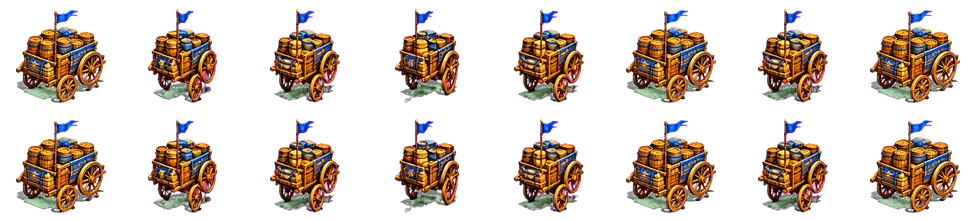
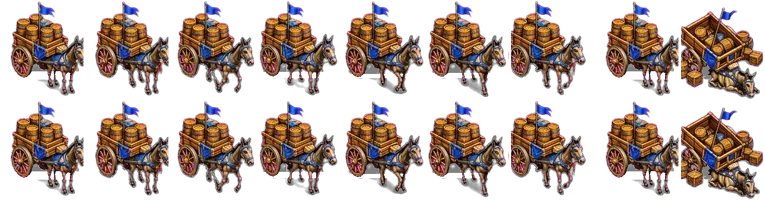
v17: Carroça de Suprimentos com burro (arte do Gemini): 7 quadros andando + destruída
- usa a 2ª fileira da folha; 1ª fileira (sem burro) e as viradas para a esquerda ficaram de fora
- JPG: fundo quase-magenta normalizado antes do recorte; âncora centrada no desenho

Claude-Session: https://claude.ai/code/session_01GABPqirBMdktwhnGVNR9nv

diff --git a/index.html b/index.html
@@ -2619,8 +2619,8 @@ function drawHuntTool(t,S,u){const hx=S.w*.18,hy=-S.ay*.52;ctx.lineCap='round';
     if(pull){ctx.strokeStyle='#d9c9a0';ctx.lineWidth=1.1;ctx.beginPath();ctx.moveTo(ex-pull,hy);ctx.lineTo(cx+R+5,hy);ctx.stroke()}}
   else{ctx.strokeStyle='#3a2616';ctx.lineWidth=2.6;ctx.beginPath();ctx.moveTo(hx-8,hy+4);ctx.lineTo(hx+12,hy-3);ctx.stroke();ctx.strokeStyle='#5a5a5a';ctx.lineWidth=1.6;ctx.beginPath();ctx.moveTo(hx+2,hy);ctx.lineTo(hx+14,hy-4);ctx.stroke()}}
 
-// ---------- arte do GPT: medidas geradas pelos recorta*.py ----------
-const GPTART={"u":{"vill":{"w":42.07,"h":63.84,"ax":19.67,"ay":61.81,"dead":true,"team":true},"guer":{"w":41.61,"h":64.23,"ax":19.07,"ay":61.68,"dead":true,"team":true},"guerA":{"w":41.42,"h":66.79,"ax":19.13,"ay":62.96,"dead":true,"team":true},"espa":{"w":40.52,"h":61.66,"ax":17.35,"ay":55.26,"dead":true,"team":true},"gaz":{"w":33.73,"h":40.38,"ax":14.59,"ay":38.59,"dead":false,"team":false},"elfs":{"w":89.6,"h":94.0,"ax":36.36,"ay":89.2,"dead":false,"team":false},"leao":{"w":44.3,"h":45.13,"ax":23.65,"ay":43.48,"dead":false,"team":false},"hopl":{"w":28.14,"h":59.31,"ax":15.61,"ay":53.26,"dead":true,"team":true,"rows":2},"arq":{"w":28.04,"h":55.52,"ax":15.45,"ay":54.83,"dead":true,"team":true,"rows":2},"arqc":{"w":45.85,"h":63.82,"ax":22.28,"ay":61.29,"dead":true,"team":true,"rows":2},"sac":{"w":45.91,"h":68.86,"ax":22.32,"ay":62.95,"dead":true,"team":true,"rows":2},"bat":{"w":60.55,"h":68.51,"ax":31.4,"ay":65.33,"dead":true,"team":true,"rows":2},"cav":{"w":62.27,"h":80.02,"ax":32.72,"ay":74.83,"dead":true,"team":true,"rows":2},"arqcav":{"w":54.38,"h":105.38,"ax":25.15,"ay":91.36,"dead":true,"team":true,"rows":2},"elef":{"w":74.34,"h":142.63,"ax":29.85,"ay":114.37,"dead":true,"team":true,"rows":2},"pedra":{"w":71.9,"h":125.71,"ax":32.72,"ay":109.52,"dead":true,"team":true,"rows":1},"bal":{"w":66.62,"h":126.18,"ax":32.26,"ay":108.97,"dead":true,"team":true,"rows":1},"bguer":{"w":103.38,"h":58.15,"ax":54.2,"ay":57.35,"dead":false,"team":true,"rows":1},"trans":{"w":100.03,"h":60.52,"ax":56.76,"ay":59.12,"dead":false,"team":true,"rows":1},"pesc":{"w":79.5,"h":48.59,"ax":42.91,"ay":46.71,"dead":false,"team":true,"rows":1},"trir":{"w":107.17,"h":65.51,"ax":56.59,"ay":64.6,"dead":false,"team":true,"rows":1},"villW":{"w":47.84,"h":52.16,"ax":26.88,"ay":50.87,"dead":false,"team":true,"rows":2,"walk8":true},"caravana":{"w":42.35,"h":48.84,"ax":27.15,"ay":47.01,"dead":true,"team":true,"rows":2,"wf":7,"ws":0},"carroca":{"w":61.0,"h":55.0,"ax":30.34,"ay":50.72,"dead":false,"team":true,"rows":2},"mercador":{"w":50.4,"h":57.6,"ax":25.62,"ay":56.0,"dead":false,"team":true,"rows":2,"wf":8,"ws":0},"general":{"w":58.69,"h":68.13,"ax":32.6,"ay":66.9,"dead":false,"team":true,"rows":2,"wf":8,"ws":0},"carro":{"w":75.96,"h":64.05,"ax":34.31,"ay":62.82,"dead":false,"team":true,"rows":2,"wf":8,"ws":0}},"b":{"grego":{"tc":{"W":194.57,"H":192.51,"xc":97.03,"top":94.46,"cy":142.46,"bt":1.54,"dw":192.0,"r":[0,0,389,385],"at":"P1"},"casa":{"W":130.77,"H":105.86,"xc":65.38,"top":40.48,"cy":72.48,"bt":1.04,"dw":128.0,"r":[391,0,262,212],"at":"P1"},"celeiro":{"W":133.27,"H":107.25,"xc":67.52,"top":41.85,"cy":73.85,"bt":1.05,"dw":128.0,"r":[655,0,267,215],"at":"P1"},"deposito":{"W":129.72,"H":109.13,"xc":65.03,"top":43.75,"cy":75.75,"bt":1.03,"dw":128.0,"r":[924,0,259,218],"at":"P1"},"mercado":{"W":192.51,"H":176.72,"xc":96.0,"top":78.18,"cy":126.18,"bt":1.53,"dw":192.0,"r":[1185,0,385,353],"at":"P1"},"doca":{"W":132.25,"H":107.79,"xc":66.13,"top":42.02,"cy":74.02,"bt":1.06,"dw":128.0,"r":[1572,0,265,216],"at":"P1"},"torre":{"W":74.62,"H":91.23,"xc":37.31,"top":54.55,"cy":72.47,"bt":0.63,"dw":71.68,"r":[1839,0,149,182],"at":"P1"},"muralha":{"W":69.52,"H":66.76,"xc":37.15,"top":34.02,"cy":50.02,"bt":0.55,"dw":64.0,"r":[1990,0,139,134],"at":"P1"},"quartel":{"W":192.51,"H":169.08,"xc":96.0,"top":71.05,"cy":119.05,"bt":1.53,"dw":192.0,"r":[0,0,385,338],"at":"P2"},"arquearia":{"W":196.67,"H":158.27,"xc":100.15,"top":60.19,"cy":108.19,"bt":1.56,"dw":192.0,"r":[387,0,393,317],"at":"P2"},"estabulo":{"W":192.51,"H":165.59,"xc":96.0,"top":67.05,"cy":115.05,"bt":1.52,"dw":192.0,"r":[782,0,385,331],"at":"P2"},"academia":{"W":192.51,"H":164.5,"xc":96.0,"top":66.46,"cy":114.46,"bt":1.53,"dw":192.0,"r":[1169,0,385,329],"at":"P2"},"templo":{"W":194.57,"H":194.06,"xc":98.06,"top":96.0,"cy":144.0,"bt":1.54,"dw":192.0,"r":[1556,0,389,388],"at":"P2"},"oficina":{"W":192.51,"H":170.67,"xc":96.0,"top":72.13,"cy":120.13,"bt":1.52,"dw":192.0,"r":[1947,0,385,341],"at":"P2"},"maravilha":{"W":256.68,"H":327.11,"xc":128.0,"top":197.08,"cy":261.08,"bt":2.03,"dw":256.0,"r":[2334,0,513,654],"at":"P2"},"alicerce":{"W":128.34,"H":120.87,"xc":64.0,"top":55.51,"cy":87.51,"bt":1.02,"dw":128.0,"r":[2849,0,257,242],"at":"P2"}},"egito":{"tc":{"W":193.05,"H":240.26,"xc":96.0,"top":140.07,"cy":188.07,"bt":3.15,"dw":192.0,"at":"E","r":[0,0,386,481]},"casa":{"W":130.84,"H":128.0,"xc":66.13,"top":60.44,"cy":92.44,"bt":2.13,"dw":128.0,"at":"E","r":[388,0,262,256]},"celeiro":{"W":128.7,"H":150.38,"xc":64.0,"top":83.58,"cy":115.58,"bt":2.1,"dw":128.0,"at":"E","r":[652,0,257,301]},"deposito":{"W":128.7,"H":160.17,"xc":64.0,"top":93.38,"cy":125.38,"bt":2.1,"dw":128.0,"at":"E","r":[911,0,257,320]},"mercado":{"W":193.05,"H":224.52,"xc":96.0,"top":124.33,"cy":172.33,"bt":3.15,"dw":192.0,"at":"E","r":[1170,0,386,449]},"doca":{"W":134.58,"H":160.18,"xc":69.85,"top":93.26,"cy":125.26,"bt":2.19,"dw":128.0,"at":"E","r":[1558,0,269,320]},"torre":{"W":85.09,"H":138.27,"xc":44.63,"top":100.12,"cy":118.04,"bt":1.39,"dw":71.68,"at":"E","r":[1829,0,170,277]},"quartel":{"W":196.27,"H":238.93,"xc":99.2,"top":137.6,"cy":185.6,"bt":3.2,"dw":192.0,"at":"E","r":[2001,0,393,478]},"arquearia":{"W":193.05,"H":223.48,"xc":96.0,"top":122.23,"cy":170.23,"bt":3.15,"dw":192.0,"at":"E","r":[2396,0,386,447]},"estabulo":{"W":193.05,"H":226.62,"xc":96.0,"top":126.43,"cy":174.43,"bt":3.15,"dw":192.0,"at":"E","r":[2784,0,386,453]},"academia":{"W":196.27,"H":243.2,"xc":99.2,"top":141.87,"cy":189.87,"bt":3.2,"dw":192.0,"at":"E","r":[3172,0,393,486]},"templo":{"W":194.11,"H":282.73,"xc":97.05,"top":181.45,"cy":229.45,"bt":3.16,"dw":192.0,"at":"E","r":[3567,0,388,565]},"oficina":{"W":198.47,"H":259.96,"xc":101.39,"top":159.64,"cy":207.64,"bt":3.24,"dw":192.0,"at":"E","r":[3957,0,397,520]},"maravilha":{"W":257.4,"H":267.19,"xc":128.0,"top":133.6,"cy":197.6,"bt":4.2,"dw":256.0,"at":"E","r":[4356,0,515,534]},"biblioteca":{"W":198.28,"H":158.9,"xc":99.14,"top":61.33,"cy":109.77,"bt":0.52,"dw":193.75,"r":[0,0,397,318],"at":"E2"}},"comum":{"biblioteca":{"W":199.56,"H":213.71,"xc":100.15,"top":112.81,"cy":161.77,"bt":2.23,"dw":195.84,"r":[0,0,399,427],"at":"R1"},"forte":{"W":204.69,"H":137.0,"xc":102.35,"top":35.09,"cy":85.97,"bt":0.44,"dw":203.52,"r":[401,0,409,274],"at":"R1"}}},"n":{"tree0":{"W":78.5,"H":85.21,"xc":39.25,"top":49.31,"cy":66.81,"bt":0.67,"dw":70.0,"r":[0,0,157,170],"at":"N1"},"tree1":{"W":82.17,"H":92.36,"xc":41.3,"top":51.27,"cy":71.27,"bt":0.65,"dw":80.0,"r":[159,0,164,185],"at":"N1"},"tree3":{"W":81.59,"H":103.26,"xc":40.79,"top":69.29,"cy":85.79,"bt":0.73,"dw":66.0,"r":[325,0,163,207],"at":"N1"},"tree4":{"W":64.16,"H":90.42,"xc":32.08,"top":62.58,"cy":76.08,"bt":0.64,"dw":54.0,"r":[490,0,128,181],"at":"N1"},"tree5":{"W":80.34,"H":102.58,"xc":40.17,"top":68.6,"cy":85.1,"bt":0.74,"dw":66.0,"r":[620,0,161,205],"at":"N1"},"tree6":{"W":95.33,"H":110.81,"xc":40.6,"top":76.73,"cy":93.23,"bt":0.81,"dw":66.0,"r":[783,0,191,222],"at":"N1"},"tree7":{"W":100.45,"H":90.08,"xc":46.5,"top":51.02,"cy":70.02,"bt":0.8,"dw":76.0,"r":[976,0,201,180],"at":"N1"},"berry":{"W":66.01,"H":55.26,"xc":33.01,"top":26.33,"cy":40.33,"bt":0.56,"dw":56.0,"r":[1179,0,132,111],"at":"N1"},"gold":{"W":60.97,"H":40.43,"xc":30.49,"top":9.78,"cy":24.78,"bt":0.49,"dw":60.0,"r":[0,0,122,81],"at":"N2"},"mina":{"W":97.28,"H":85.99,"xc":49.03,"top":36.96,"cy":60.96,"bt":0.77,"dw":96.0,"r":[124,0,195,172],"at":"N2"},"stone":{"W":61.3,"H":41.68,"xc":30.65,"top":11.03,"cy":26.03,"bt":0.49,"dw":60.0,"r":[321,0,123,83],"at":"N2"},"pedreira":{"W":97.29,"H":89.29,"xc":49.03,"top":40.26,"cy":64.26,"bt":0.77,"dw":96.0,"r":[446,0,195,179],"at":"N2"},"fish":{"W":62.86,"H":42.1,"xc":31.43,"top":13.33,"cy":27.33,"bt":0.57,"dw":56.0,"r":[643,0,126,84],"at":"N2"},"carc":{"W":59.25,"H":34.02,"xc":29.63,"top":4.23,"cy":18.73,"bt":0.47,"dw":58.0,"r":[771,0,119,68],"at":"N2"},"carcE":{"W":83.55,"H":58.35,"xc":41.66,"top":16.25,"cy":36.75,"bt":0.66,"dw":82.0,"r":[892,0,167,117],"at":"N2"},"toco":{"W":40.98,"H":25.5,"xc":20.33,"top":4.96,"cy":14.96,"bt":0.33,"dw":40.0,"r":[1061,0,82,51],"at":"N2"}},"x":{"raro_gemas":{"W":87.11,"H":67.41,"xc":43.56,"top":23.33,"cy":44.33,"bt":1.56,"dw":84.0,"r":[0,0,174,135],"at":"R2"},"raro_uvas":{"W":86.74,"H":73.04,"xc":43.37,"top":29.22,"cy":50.22,"bt":1.37,"dw":84.0,"r":[176,0,173,146],"at":"R2"},"raro_sal":{"W":87.05,"H":64.15,"xc":43.53,"top":20.11,"cy":41.11,"bt":1.53,"dw":84.0,"r":[351,0,174,128],"at":"R2"},"raro_cavalos":{"W":87.65,"H":74.41,"xc":43.83,"top":30.59,"cy":51.59,"bt":1.37,"dw":84.0,"r":[527,0,175,149],"at":"R2"},"raro_cedro":{"W":87.02,"H":80.98,"xc":43.51,"top":36.97,"cy":57.97,"bt":1.51,"dw":84.0,"r":[704,0,174,162],"at":"R2"},"raro_marmore":{"W":87.07,"H":79.39,"xc":43.54,"top":35.34,"cy":56.34,"bt":1.54,"dw":84.0,"r":[880,0,174,159],"at":"R2"},"raro_seda":{"W":87.05,"H":84.0,"xc":43.53,"top":39.96,"cy":60.96,"bt":1.53,"dw":84.0,"r":[1056,0,174,168],"at":"R2"},"raro_ervas":{"W":87.23,"H":77.54,"xc":43.62,"top":33.38,"cy":54.38,"bt":1.62,"dw":84.0,"r":[1232,0,174,155],"at":"R2"},"ruina0":{"W":121.16,"H":123.27,"xc":60.58,"top":62.16,"cy":91.66,"bt":1.58,"dw":118.0,"r":[1408,0,242,247],"at":"R2"},"ruina1":{"W":121.69,"H":108.32,"xc":60.84,"top":47.02,"cy":76.52,"bt":1.38,"dw":118.0,"r":[1652,0,243,217],"at":"R2"},"ruina2":{"W":121.79,"H":109.94,"xc":60.9,"top":49.05,"cy":78.55,"bt":1.42,"dw":118.0,"r":[1897,0,244,220],"at":"R2"},"ruina3":{"W":121.08,"H":119.54,"xc":60.54,"top":57.97,"cy":87.47,"bt":1.54,"dw":118.0,"r":[2143,0,242,239],"at":"R2"},"ruina4":{"W":121.63,"H":119.82,"xc":60.82,"top":58.39,"cy":87.89,"bt":1.82,"dw":118.0,"r":[2387,0,243,240],"at":"R2"},"ruina5":{"W":121.49,"H":119.16,"xc":60.74,"top":57.84,"cy":87.34,"bt":1.74,"dw":118.0,"r":[2632,0,243,238],"at":"R2"}}};
+// ---------- arte do GPT/Gemini ----------
+const GPTART={"u":{"vill":{"w":42.07,"h":63.84,"ax":19.67,"ay":61.81,"dead":true,"team":true},"guer":{"w":41.61,"h":64.23,"ax":19.07,"ay":61.68,"dead":true,"team":true},"guerA":{"w":41.42,"h":66.79,"ax":19.13,"ay":62.96,"dead":true,"team":true},"espa":{"w":40.52,"h":61.66,"ax":17.35,"ay":55.26,"dead":true,"team":true},"gaz":{"w":33.73,"h":40.38,"ax":14.59,"ay":38.59,"dead":false,"team":false},"elfs":{"w":89.6,"h":94.0,"ax":36.36,"ay":89.2,"dead":false,"team":false},"leao":{"w":44.3,"h":45.13,"ax":23.65,"ay":43.48,"dead":false,"team":false},"hopl":{"w":28.14,"h":59.31,"ax":15.61,"ay":53.26,"dead":true,"team":true,"rows":2},"arq":{"w":28.04,"h":55.52,"ax":15.45,"ay":54.83,"dead":true,"team":true,"rows":2},"arqc":{"w":45.85,"h":63.82,"ax":22.28,"ay":61.29,"dead":true,"team":true,"rows":2},"sac":{"w":45.91,"h":68.86,"ax":22.32,"ay":62.95,"dead":true,"team":true,"rows":2},"bat":{"w":60.55,"h":68.51,"ax":31.4,"ay":65.33,"dead":true,"team":true,"rows":2},"cav":{"w":62.27,"h":80.02,"ax":32.72,"ay":74.83,"dead":true,"team":true,"rows":2},"arqcav":{"w":54.38,"h":105.38,"ax":25.15,"ay":91.36,"dead":true,"team":true,"rows":2},"elef":{"w":74.34,"h":142.63,"ax":29.85,"ay":114.37,"dead":true,"team":true,"rows":2},"pedra":{"w":71.9,"h":125.71,"ax":32.72,"ay":109.52,"dead":true,"team":true,"rows":1},"bal":{"w":66.62,"h":126.18,"ax":32.26,"ay":108.97,"dead":true,"team":true,"rows":1},"bguer":{"w":103.38,"h":58.15,"ax":54.2,"ay":57.35,"dead":false,"team":true,"rows":1},"trans":{"w":100.03,"h":60.52,"ax":56.76,"ay":59.12,"dead":false,"team":true,"rows":1},"pesc":{"w":79.5,"h":48.59,"ax":42.91,"ay":46.71,"dead":false,"team":true,"rows":1},"trir":{"w":107.17,"h":65.51,"ax":56.59,"ay":64.6,"dead":false,"team":true,"rows":1},"villW":{"w":47.84,"h":52.16,"ax":26.88,"ay":50.87,"dead":false,"team":true,"rows":2,"walk8":true},"caravana":{"w":42.35,"h":48.84,"ax":27.15,"ay":47.01,"dead":true,"team":true,"rows":2,"wf":7,"ws":0},"carroca":{"w":42.62,"h":49.9,"ax":23.5,"ay":47.04,"dead":true,"team":true,"rows":2,"wf":7,"ws":0},"mercador":{"w":50.4,"h":57.6,"ax":25.62,"ay":56.0,"dead":false,"team":true,"rows":2,"wf":8,"ws":0},"general":{"w":58.69,"h":68.13,"ax":32.6,"ay":66.9,"dead":false,"team":true,"rows":2,"wf":8,"ws":0},"carro":{"w":75.96,"h":64.05,"ax":34.31,"ay":62.82,"dead":false,"team":true,"rows":2,"wf":8,"ws":0}},"b":{"grego":{"tc":{"W":194.57,"H":192.51,"xc":97.03,"top":94.46,"cy":142.46,"bt":1.54,"dw":192.0,"r":[0,0,389,385],"at":"P1"},"casa":{"W":130.77,"H":105.86,"xc":65.38,"top":40.48,"cy":72.48,"bt":1.04,"dw":128.0,"r":[391,0,262,212],"at":"P1"},"celeiro":{"W":133.27,"H":107.25,"xc":67.52,"top":41.85,"cy":73.85,"bt":1.05,"dw":128.0,"r":[655,0,267,215],"at":"P1"},"deposito":{"W":129.72,"H":109.13,"xc":65.03,"top":43.75,"cy":75.75,"bt":1.03,"dw":128.0,"r":[924,0,259,218],"at":"P1"},"mercado":{"W":192.51,"H":176.72,"xc":96.0,"top":78.18,"cy":126.18,"bt":1.53,"dw":192.0,"r":[1185,0,385,353],"at":"P1"},"doca":{"W":132.25,"H":107.79,"xc":66.13,"top":42.02,"cy":74.02,"bt":1.06,"dw":128.0,"r":[1572,0,265,216],"at":"P1"},"torre":{"W":74.62,"H":91.23,"xc":37.31,"top":54.55,"cy":72.47,"bt":0.63,"dw":71.68,"r":[1839,0,149,182],"at":"P1"},"muralha":{"W":69.52,"H":66.76,"xc":37.15,"top":34.02,"cy":50.02,"bt":0.55,"dw":64.0,"r":[1990,0,139,134],"at":"P1"},"quartel":{"W":192.51,"H":169.08,"xc":96.0,"top":71.05,"cy":119.05,"bt":1.53,"dw":192.0,"r":[0,0,385,338],"at":"P2"},"arquearia":{"W":196.67,"H":158.27,"xc":100.15,"top":60.19,"cy":108.19,"bt":1.56,"dw":192.0,"r":[387,0,393,317],"at":"P2"},"estabulo":{"W":192.51,"H":165.59,"xc":96.0,"top":67.05,"cy":115.05,"bt":1.52,"dw":192.0,"r":[782,0,385,331],"at":"P2"},"academia":{"W":192.51,"H":164.5,"xc":96.0,"top":66.46,"cy":114.46,"bt":1.53,"dw":192.0,"r":[1169,0,385,329],"at":"P2"},"templo":{"W":194.57,"H":194.06,"xc":98.06,"top":96.0,"cy":144.0,"bt":1.54,"dw":192.0,"r":[1556,0,389,388],"at":"P2"},"oficina":{"W":192.51,"H":170.67,"xc":96.0,"top":72.13,"cy":120.13,"bt":1.52,"dw":192.0,"r":[1947,0,385,341],"at":"P2"},"maravilha":{"W":256.68,"H":327.11,"xc":128.0,"top":197.08,"cy":261.08,"bt":2.03,"dw":256.0,"r":[2334,0,513,654],"at":"P2"},"alicerce":{"W":128.34,"H":120.87,"xc":64.0,"top":55.51,"cy":87.51,"bt":1.02,"dw":128.0,"r":[2849,0,257,242],"at":"P2"}},"egito":{"tc":{"W":193.05,"H":240.26,"xc":96.0,"top":140.07,"cy":188.07,"bt":3.15,"dw":192.0,"at":"E","r":[0,0,386,481]},"casa":{"W":130.84,"H":128.0,"xc":66.13,"top":60.44,"cy":92.44,"bt":2.13,"dw":128.0,"at":"E","r":[388,0,262,256]},"celeiro":{"W":128.7,"H":150.38,"xc":64.0,"top":83.58,"cy":115.58,"bt":2.1,"dw":128.0,"at":"E","r":[652,0,257,301]},"deposito":{"W":128.7,"H":160.17,"xc":64.0,"top":93.38,"cy":125.38,"bt":2.1,"dw":128.0,"at":"E","r":[911,0,257,320]},"mercado":{"W":193.05,"H":224.52,"xc":96.0,"top":124.33,"cy":172.33,"bt":3.15,"dw":192.0,"at":"E","r":[1170,0,386,449]},"doca":{"W":134.58,"H":160.18,"xc":69.85,"top":93.26,"cy":125.26,"bt":2.19,"dw":128.0,"at":"E","r":[1558,0,269,320]},"torre":{"W":85.09,"H":138.27,"xc":44.63,"top":100.12,"cy":118.04,"bt":1.39,"dw":71.68,"at":"E","r":[1829,0,170,277]},"quartel":{"W":196.27,"H":238.93,"xc":99.2,"top":137.6,"cy":185.6,"bt":3.2,"dw":192.0,"at":"E","r":[2001,0,393,478]},"arquearia":{"W":193.05,"H":223.48,"xc":96.0,"top":122.23,"cy":170.23,"bt":3.15,"dw":192.0,"at":"E","r":[2396,0,386,447]},"estabulo":{"W":193.05,"H":226.62,"xc":96.0,"top":126.43,"cy":174.43,"bt":3.15,"dw":192.0,"at":"E","r":[2784,0,386,453]},"academia":{"W":196.27,"H":243.2,"xc":99.2,"top":141.87,"cy":189.87,"bt":3.2,"dw":192.0,"at":"E","r":[3172,0,393,486]},"templo":{"W":194.11,"H":282.73,"xc":97.05,"top":181.45,"cy":229.45,"bt":3.16,"dw":192.0,"at":"E","r":[3567,0,388,565]},"oficina":{"W":198.47,"H":259.96,"xc":101.39,"top":159.64,"cy":207.64,"bt":3.24,"dw":192.0,"at":"E","r":[3957,0,397,520]},"maravilha":{"W":257.4,"H":267.19,"xc":128.0,"top":133.6,"cy":197.6,"bt":4.2,"dw":256.0,"at":"E","r":[4356,0,515,534]},"biblioteca":{"W":198.28,"H":158.9,"xc":99.14,"top":61.33,"cy":109.77,"bt":0.52,"dw":193.75,"r":[0,0,397,318],"at":"E2"}},"comum":{"biblioteca":{"W":199.56,"H":213.71,"xc":100.15,"top":112.81,"cy":161.77,"bt":2.23,"dw":195.84,"r":[0,0,399,427],"at":"R1"},"forte":{"W":204.69,"H":137.0,"xc":102.35,"top":35.09,"cy":85.97,"bt":0.44,"dw":203.52,"r":[401,0,409,274],"at":"R1"}}},"n":{"tree0":{"W":78.5,"H":85.21,"xc":39.25,"top":49.31,"cy":66.81,"bt":0.67,"dw":70.0,"r":[0,0,157,170],"at":"N1"},"tree1":{"W":82.17,"H":92.36,"xc":41.3,"top":51.27,"cy":71.27,"bt":0.65,"dw":80.0,"r":[159,0,164,185],"at":"N1"},"tree3":{"W":81.59,"H":103.26,"xc":40.79,"top":69.29,"cy":85.79,"bt":0.73,"dw":66.0,"r":[325,0,163,207],"at":"N1"},"tree4":{"W":64.16,"H":90.42,"xc":32.08,"top":62.58,"cy":76.08,"bt":0.64,"dw":54.0,"r":[490,0,128,181],"at":"N1"},"tree5":{"W":80.34,"H":102.58,"xc":40.17,"top":68.6,"cy":85.1,"bt":0.74,"dw":66.0,"r":[620,0,161,205],"at":"N1"},"tree6":{"W":95.33,"H":110.81,"xc":40.6,"top":76.73,"cy":93.23,"bt":0.81,"dw":66.0,"r":[783,0,191,222],"at":"N1"},"tree7":{"W":100.45,"H":90.08,"xc":46.5,"top":51.02,"cy":70.02,"bt":0.8,"dw":76.0,"r":[976,0,201,180],"at":"N1"},"berry":{"W":66.01,"H":55.26,"xc":33.01,"top":26.33,"cy":40.33,"bt":0.56,"dw":56.0,"r":[1179,0,132,111],"at":"N1"},"gold":{"W":60.97,"H":40.43,"xc":30.49,"top":9.78,"cy":24.78,"bt":0.49,"dw":60.0,"r":[0,0,122,81],"at":"N2"},"mina":{"W":97.28,"H":85.99,"xc":49.03,"top":36.96,"cy":60.96,"bt":0.77,"dw":96.0,"r":[124,0,195,172],"at":"N2"},"stone":{"W":61.3,"H":41.68,"xc":30.65,"top":11.03,"cy":26.03,"bt":0.49,"dw":60.0,"r":[321,0,123,83],"at":"N2"},"pedreira":{"W":97.29,"H":89.29,"xc":49.03,"top":40.26,"cy":64.26,"bt":0.77,"dw":96.0,"r":[446,0,195,179],"at":"N2"},"fish":{"W":62.86,"H":42.1,"xc":31.43,"top":13.33,"cy":27.33,"bt":0.57,"dw":56.0,"r":[643,0,126,84],"at":"N2"},"carc":{"W":59.25,"H":34.02,"xc":29.63,"top":4.23,"cy":18.73,"bt":0.47,"dw":58.0,"r":[771,0,119,68],"at":"N2"},"carcE":{"W":83.55,"H":58.35,"xc":41.66,"top":16.25,"cy":36.75,"bt":0.66,"dw":82.0,"r":[892,0,167,117],"at":"N2"},"toco":{"W":40.98,"H":25.5,"xc":20.33,"top":4.96,"cy":14.96,"bt":0.33,"dw":40.0,"r":[1061,0,82,51],"at":"N2"}},"x":{"raro_gemas":{"W":87.11,"H":67.41,"xc":43.56,"top":23.33,"cy":44.33,"bt":1.56,"dw":84.0,"r":[0,0,174,135],"at":"R2"},"raro_uvas":{"W":86.74,"H":73.04,"xc":43.37,"top":29.22,"cy":50.22,"bt":1.37,"dw":84.0,"r":[176,0,173,146],"at":"R2"},"raro_sal":{"W":87.05,"H":64.15,"xc":43.53,"top":20.11,"cy":41.11,"bt":1.53,"dw":84.0,"r":[351,0,174,128],"at":"R2"},"raro_cavalos":{"W":87.65,"H":74.41,"xc":43.83,"top":30.59,"cy":51.59,"bt":1.37,"dw":84.0,"r":[527,0,175,149],"at":"R2"},"raro_cedro":{"W":87.02,"H":80.98,"xc":43.51,"top":36.97,"cy":57.97,"bt":1.51,"dw":84.0,"r":[704,0,174,162],"at":"R2"},"raro_marmore":{"W":87.07,"H":79.39,"xc":43.54,"top":35.34,"cy":56.34,"bt":1.54,"dw":84.0,"r":[880,0,174,159],"at":"R2"},"raro_seda":{"W":87.05,"H":84.0,"xc":43.53,"top":39.96,"cy":60.96,"bt":1.53,"dw":84.0,"r":[1056,0,174,168],"at":"R2"},"raro_ervas":{"W":87.23,"H":77.54,"xc":43.62,"top":33.38,"cy":54.38,"bt":1.62,"dw":84.0,"r":[1232,0,174,155],"at":"R2"},"ruina0":{"W":121.16,"H":123.27,"xc":60.58,"top":62.16,"cy":91.66,"bt":1.58,"dw":118.0,"r":[1408,0,242,247],"at":"R2"},"ruina1":{"W":121.69,"H":108.32,"xc":60.84,"top":47.02,"cy":76.52,"bt":1.38,"dw":118.0,"r":[1652,0,243,217],"at":"R2"},"ruina2":{"W":121.79,"H":109.94,"xc":60.9,"top":49.05,"cy":78.55,"bt":1.42,"dw":118.0,"r":[1897,0,244,220],"at":"R2"},"ruina3":{"W":121.08,"H":119.54,"xc":60.54,"top":57.97,"cy":87.47,"bt":1.54,"dw":118.0,"r":[2143,0,242,239],"at":"R2"},"ruina4":{"W":121.63,"H":119.82,"xc":60.82,"top":58.39,"cy":87.89,"bt":1.82,"dw":118.0,"r":[2387,0,243,240],"at":"R2"},"ruina5":{"W":121.49,"H":119.16,"xc":60.74,"top":57.84,"cy":87.34,"bt":1.74,"dw":118.0,"r":[2632,0,243,238],"at":"R2"}}};
 
 // =========================================================
 //   ARTE DO GPT: imagens prontas no lugar dos desenhos do código
@@ -3364,7 +3364,7 @@ if('serviceWorker'in navigator&&location.protocol==='https:')navigator.serviceWo
 window.__RA={get G(){return G},step,aiTick,newGame,startGame,getE,cam:()=>({x:camX,y:camY,z:Z}),sel:()=>SEL,plc:()=>placing,setCam:(x,y,z)=>{camX=x;camY=y;if(z)Z=z},updVis,render,drawMM,w2s,recompute};
 window.__padState=()=>PAD;
 // ---------- botão de atualizar: limpa a cópia guardada e baixa a versão nova ----------
-const VERSAO='Versão 16';$('ver').textContent=VERSAO;
+const VERSAO='Versão 17';$('ver').textContent=VERSAO;
 $('bupd').onclick=async()=>{snd('click');const t=$('updt');
   if(!navigator.onLine){t.textContent='📶 Sem internet. Ligue os dados ou o Wi-Fi e tente de novo.';return}
   t.textContent='🔄 Procurando a versão nova...';

diff --git a/sw.js b/sw.js
@@ -1,6 +1,6 @@
 // Guarda o jogo no celular para funcionar sem internet.
 // Ao atualizar o jogo, troque o número da versão abaixo (v1 -> v2 ...).
-const CACHE = 'imperio-v16';
+const CACHE = 'imperio-v17';
 const FILES = ['./', './index.html', './manifest.json', './icon-192.png', './icon-512.png', './assets/abertura.jpg', './assets/gpt/b_egito_E_0.webp', './assets/gpt/b_egito_E_1.webp', './assets/gpt/b_grego_P1_0.webp', './assets/gpt/b_grego_P1_1.webp', './assets/gpt/b_grego_P2_0.webp', './assets/gpt/b_grego_P2_1.webp', './assets/gpt/n_N1.webp', './assets/gpt/n_N2.webp', './assets/gpt/t_areia.webp', './assets/gpt/t_fundo.webp', './assets/gpt/t_grama.webp', './assets/gpt/t_raso.webp', './assets/gpt/t_seca.webp', './assets/gpt/t_terra.webp', './assets/gpt/u_arq_0.webp', './assets/gpt/u_arq_1.webp', './assets/gpt/u_arqc_0.webp', './assets/gpt/u_arqc_1.webp', './assets/gpt/u_arqcav_0.webp', './assets/gpt/u_arqcav_1.webp', './assets/gpt/u_bal_0.webp', './assets/gpt/u_bal_1.webp', './assets/gpt/u_bat_0.webp', './assets/gpt/u_bat_1.webp', './assets/gpt/u_bguer_0.webp', './assets/gpt/u_bguer_1.webp', './assets/gpt/u_cav_0.webp', './assets/gpt/u_cav_1.webp', './assets/gpt/u_elef_0.webp', './assets/gpt/u_elef_1.webp', './assets/gpt/u_elfs_2.webp', './assets/gpt/u_espa_0.webp', './assets/gpt/u_espa_1.webp', './assets/gpt/u_gaz_2.webp', './assets/gpt/u_guerA_0.webp', './assets/gpt/u_guerA_1.webp', './assets/gpt/u_guer_0.webp', './assets/gpt/u_guer_1.webp', './assets/gpt/u_hopl_0.webp', './assets/gpt/u_hopl_1.webp', './assets/gpt/u_leao_2.webp', './assets/gpt/u_pedra_0.webp', './assets/gpt/u_pedra_1.webp', './assets/gpt/u_pesc_0.webp', './assets/gpt/u_pesc_1.webp', './assets/gpt/u_sac_0.webp', './assets/gpt/u_sac_1.webp', './assets/gpt/u_trans_0.webp', './assets/gpt/u_trans_1.webp', './assets/gpt/u_trir_0.webp', './assets/gpt/u_trir_1.webp', './assets/gpt/u_vill_0.webp', './assets/gpt/u_vill_1.webp', './assets/gpt/u_villW_0.webp', './assets/gpt/u_villW_1.webp', './assets/gpt/b_egito_E2_0.webp', './assets/gpt/b_egito_E2_1.webp', './assets/gpt/u_carro_0.webp', './assets/gpt/u_carro_1.webp', './assets/gpt/b_comum_R1_0.webp', './assets/gpt/b_comum_R1_1.webp', './assets/gpt/x_R2_0.webp', './assets/gpt/x_R2_1.webp', './assets/gpt/u_caravana_0.webp', './assets/gpt/u_caravana_1.webp', './assets/gpt/u_carroca_0.webp', './assets/gpt/u_carroca_1.webp', './assets/gpt/u_mercador_0.webp', './assets/gpt/u_mercador_1.webp', './assets/gpt/u_general_0.webp', './assets/gpt/u_general_1.webp'];
 self.addEventListener('install', e => {
   e.waitUntil(caches.open(CACHE).then(c => c.addAll(FILES)));

diff --git a/README.md b/README.md
@@ -30,5 +30,5 @@ Jogo de estratégia em tempo real para celular (antes chamado *Reinos Antigos*),
 
 ## Arquivos
 - `index.html` — o jogo inteiro (desenhos, regras, inteligência do inimigo, sons e música)
-- `sw.js` — guarda o jogo no celular para funcionar offline (ao atualizar o jogo, trocar a versão `imperio-v16` → `imperio-v17`)
+- `sw.js` — guarda o jogo no celular para funcionar offline (ao atualizar o jogo, trocar a versão `imperio-v17` → `imperio-v18`)
 - `manifest.json` e ícones — instalação como app
